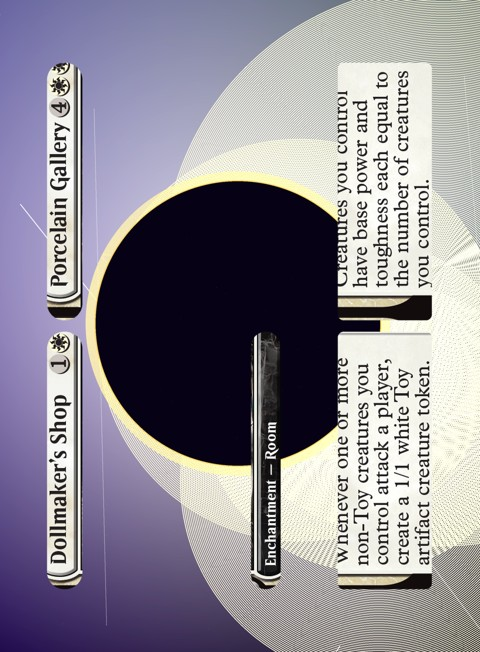
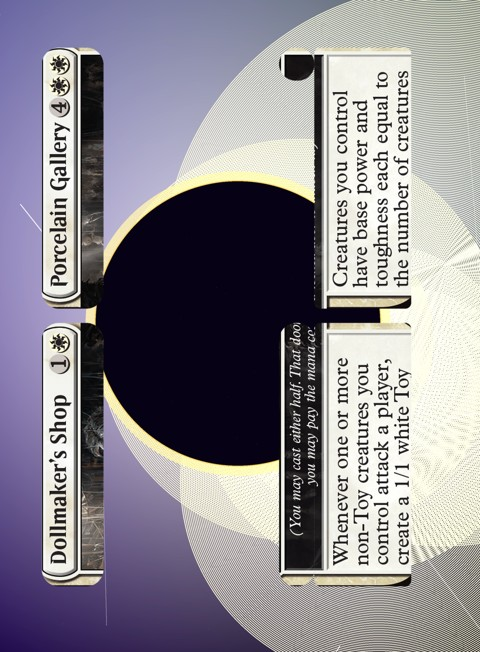
feat(compositor): precision room dual-door masking and split card support with fuse detection

Changed region(s): [[0.5, 0.0613, 0.9062, 0.9202], [0.0625, 0.0613, 0.2188, 0.9202]]

diff --git a/backend/compositor.py b/backend/compositor.py
@@ -193,12 +193,15 @@ def detect_card_boxes(
     full_art: Optional[bool] = False,
     security_stamp: Optional[str] = None,
     rarity: Optional[str] = None,
+    keywords: Optional[List[str]] = None,
+    oracle_text: Optional[str] = None,
+    card_name: Optional[str] = None,
 ) -> Dict[str, Any]:
     """
     Detects individual borders of the card rules and statistic text boxes,
     along with art box, title header (and subtitle banner if present), and type line.
     Specifically detects individual station circle badges for cards with the Station mechanic.
-    Adapts dynamically to standard, planeswalker, borderless, showcase, and inverted card layouts.
+    Adapts dynamically to standard, planeswalker, borderless, showcase, rooms, and split cards (with/without Fuse).
     """
     cw, ch = card_img.size
     sx = cw / 745.0
@@ -209,12 +212,19 @@ def detect_card_boxes(
 
     t_lower = (type_line or "").lower()
     l_lower = (layout or "").lower()
+    c_lower = (card_name or "").lower()
     effects = [str(e).lower() for e in (frame_effects or [])]
+    k_lower = [str(k).lower() for k in (keywords or [])]
+    o_lower = (oracle_text or "").lower()
 
     is_saga = (l_lower == "saga") or ("saga" in t_lower)
     is_class = (l_lower == "class") or ("class" in t_lower)
     is_case = (l_lower == "case") or ("case" in t_lower)
     is_room = ("room" in t_lower) or (l_lower == "room") or (l_lower == "split" and "room" in t_lower)
+    is_split = (not is_room) and (
+        (l_lower == "split")
+        or ("//" in c_lower and any(kw in t_lower for kw in ["instant", "sorcery", "spell"]))
+    )
     is_battle = any(k in t_lower for k in ["battle", "siege"]) or (l_lower == "battle")
     is_adventure = (l_lower == "adventure") or ("adventure" in t_lower) or ("adventure" in effects)
     is_planeswalker = "walker" in t_lower
@@ -239,10 +249,10 @@ def detect_card_boxes(
     stat_polygon = None
     subtitle_polygon = None
 
-    # Holo stamp detection: Sagas, Classes, Cases, Rooms, and Battles never mask holofoil space.
+    # Holo stamp detection: Sagas, Classes, Cases, Rooms, Split cards, and Battles never mask holofoil space.
     # Standard commons/uncommons do not have a holographic security stamp.
     has_holo = (
-        not (is_saga or is_class or is_case or is_room or is_battle)
+        not (is_saga or is_class or is_case or is_room or is_split or is_battle)
         and (
             (security_stamp is not None and security_stamp.lower() not in ["", "none", "arena"])
             or (rarity and rarity.lower() in ["rare", "mythic", "special", "bonus"])
@@ -291,20 +301,66 @@ def detect_card_boxes(
         type_box = (int(44 * sx), int(880 * sy), int(700 * sx), int(936 * sy))
         stat_box = None
     elif is_room:
-        # Room dual-door layout inside standard vertical card
-        # Left Door (Dollmaker's Shop): vertical title pill at bottom-left, rules box at bottom-right
-        # Right Door (Porcelain Gallery): vertical title pill at top-left, rules box at top-right
+        # Room dual-door layout inside standard vertical card:
+        # Left Door (bottom): vertical title pill at bottom-left, rules box at bottom-right
+        # Right Door (top): vertical title pill at top-left, rules box at top-right
         # Vertical Type line (Enchantment — Room) at bottom-center. Central reminder text is excluded from mask.
-        title_pill = (int(44 * sx), int(530 * sy), int(104 * sx), int(970 * sy))
+        title_pill = (int(35 * sx), int(515 * sy), int(140 * sx), int(965 * sy))
         title_box = title_pill
-        type_box = (int(392 * sx), int(530 * sy), int(442 * sx), int(970 * sy))
-        rules_box = (int(540 * sx), int(530 * sy), int(700 * sx), int(970 * sy))
-        art_box = (int(104 * sx), int(50 * sy), int(392 * sx), int(990 * sy))
+        type_box = (int(440 * sx), int(515 * sy), int(500 * sx), int(965 * sy))
+        rules_box = (int(500 * sx), int(515 * sy), int(665 * sx), int(965 * sy))
+        art_box = (int(140 * sx), int(44 * sy), int(440 * sx), int(965 * sy))
         stat_box = None
         extra_boxes = [
-            {"box": (int(44 * sx), int(70 * sy), int(104 * sx), int(510 * sy)), "type": "pill"},
-            {"box": (int(540 * sx), int(70 * sy), int(700 * sx), int(510 * sy)), "type": "rect"},
+            {"box": (int(35 * sx), int(44 * sy), int(140 * sx), int(490 * sy)), "type": "pill"},
+            {"box": (int(440 * sx), int(44 * sy), int(500 * sx), int(100 * sy)), "type": "pill"},
+            {"box": (int(500 * sx), int(44 * sy), int(665 * sx), int(490 * sy)), "type": "rect"},
         ]
+    elif is_split:
+        # Split card layout (Two variants: With Fuse and Without Fuse)
+        has_fuse = (
+            ("fuse" in k_lower)
+            or ("fuse" in (security_stamp or "").lower())
+            or ("fuse" in o_lower)
+            or any("fuse" in f for f in effects)
+        )
+        if not has_fuse and card_img is not None:
+            # Check right-middle probe on card frame
+            probe_p = card_img.getpixel((int(635 * sx), int(505 * sy)))
+            if sum(probe_p[:3]) / 3.0 > 80:
+                has_fuse = True
+
+        if has_fuse:
+            # Split card WITH Fuse:
+            title_pill = (int(35 * sx), int(510 * sy), int(140 * sx), int(965 * sy))
+            title_box = title_pill
+            type_box = (int(440 * sx), int(510 * sy), int(500 * sx), int(965 * sy))
+            rules_box = (int(500 * sx), int(515 * sy), int(610 * sx), int(965 * sy))
+            art_box = (int(140 * sx), int(44 * sy), int(440 * sx), int(965 * sy))
+            extra_boxes = [
+                # Top half components
+                {"box": (int(35 * sx), int(44 * sy), int(140 * sx), int(495 * sy)), "type": "pill"},
+                {"box": (int(440 * sx), int(44 * sy), int(500 * sx), int(495 * sy)), "type": "pill"},
+                {"box": (int(500 * sx), int(44 * sy), int(610 * sx), int(490 * sy)), "type": "rect"},
+                # Center connection bridges
+                {"box": (int(35 * sx), int(485 * sy), int(140 * sx), int(520 * sy)), "type": "rect"},
+                {"box": (int(440 * sx), int(485 * sy), int(500 * sx), int(520 * sy)), "type": "rect"},
+                # Fuse full-height pill on right
+                {"box": (int(610 * sx), int(44 * sy), int(665 * sx), int(965 * sy)), "type": "pill"},
+            ]
+        else:
+            # Split card WITHOUT Fuse:
+            title_pill = (int(35 * sx), int(515 * sy), int(140 * sx), int(965 * sy))
+            title_box = title_pill
+            type_box = (int(440 * sx), int(515 * sy), int(500 * sx), int(965 * sy))
+            rules_box = (int(500 * sx), int(515 * sy), int(665 * sx), int(965 * sy))
+            art_box = (int(140 * sx), int(44 * sy), int(440 * sx), int(965 * sy))
+            extra_boxes = [
+                {"box": (int(35 * sx), int(44 * sy), int(140 * sx), int(490 * sy)), "type": "pill"},
+                {"box": (int(440 * sx), int(44 * sy), int(500 * sx), int(490 * sy)), "type": "pill"},
+                {"box": (int(500 * sx), int(44 * sy), int(665 * sx), int(490 * sy)), "type": "rect"},
+            ]
+        stat_box = None
     elif is_battle:
         # Battle - Siege landscape format inside standard vertical card
         # Left vertical title column, vertical type line, single continuous rules text box, and 8-pointed defense star

diff --git a/backend/generate_samples.py b/backend/generate_samples.py
@@ -351,6 +351,39 @@ SAMPLE_CARD_VARIANTS: List[Dict[str, Any]] = [
             "Bottom-right Power/Toughness box (1/2)",
         ],
     },
+    {
+        "id": "split_no_fuse",
+        "set_code": "dmr",
+        "collector_number": "215",
+        "card_name": "Fire // Ice",
+        "category": "Split (Without Fuse)",
+        "description": "Dual-spell split card layout featuring two horizontal spells stacked vertically with separate title bars, type lines, and rules text boxes.",
+        "prompt": "Elemental clash of roaring searing crimson flames and crystalline azure glaciers colliding in tempest",
+        "key_elements": [
+            "Top spell title and type pill (Ice 1U Instant)",
+            "Top spell rules text box (Tap target permanent. Draw a card.)",
+            "Bottom spell title and type pill (Fire 1R Instant)",
+            "Bottom spell rules text box (Fire deals 2 damage divided...)",
+            "Dual-art full-frame background rotated 90° CCW",
+        ],
+    },
+    {
+        "id": "split_fuse",
+        "set_code": "dgm",
+        "collector_number": "135",
+        "card_name": "Wear // Tear",
+        "category": "Split (With Fuse)",
+        "description": "Fuse split card layout with connected title and type pillars, dual spell rules boxes, and tall vertical Fuse ability text pill on the right.",
+        "prompt": "Shattering radiant celestial armor and glowing arcane weapons disintegrating into molten embers and divine light",
+        "key_elements": [
+            "Top spell title and type pillar (Tear W Instant)",
+            "Bottom spell title and type pillar (Wear 1R Instant)",
+            "Central diamond bridges connecting title and type columns",
+            "Dual rules text boxes (Destroy target artifact / enchantment)",
+            "Full-height vertical Fuse ability text capsule on right",
+            "Dual-art full-frame background rotated 90° CCW",
+        ],
+    },
 ]
 
 
@@ -393,20 +426,28 @@ async def generate_all_samples(
             full_art=card_data.full_art,
             security_stamp=card_data.security_stamp,
             rarity=card_data.rarity,
+            keywords=card_data.keywords,
+            oracle_text=card_data.oracle_text,
+            card_name=card_data.name,
         )
 
         # Layout-specific art sizing, rotation, and focal positioning
         t_lower = (card_data.type_line or "").lower()
         l_lower = (card_data.layout or "").lower()
+        c_lower = (card_data.name or "").lower()
         is_battle = any(k in t_lower for k in ["battle", "siege"]) or (l_lower == "battle")
         is_room = ("room" in t_lower) or (l_lower == "room") or (l_lower == "split" and "room" in t_lower)
+        is_split = (not is_room) and (
+            (l_lower == "split")
+            or ("//" in c_lower and any(kw in t_lower for kw in ["instant", "sorcery", "spell"]))
+        )
         is_saga = ("saga" in t_lower) or (l_lower == "saga")
         is_class_or_case = any(k in t_lower for k in ["class", "case"]) or (l_lower in ["class", "case"])
 
         target_w = 2184
         target_h = 2968
 
-        if is_battle or is_room:
+        if is_battle or is_room or is_split:
             gen_w = max(target_w, target_h)
             gen_h = max(target_w, target_h)
             focal_pt = (gen_w // 2, gen_h // 2)
@@ -433,7 +474,7 @@ async def generate_all_samples(
             focal_center=focal_pt,
         )
 
-        if is_battle or is_room:
+        if is_battle or is_room or is_split:
             # Rotate 90° CCW (left) and center crop to standard (2184, 2968)
             art_rot = art_img.rotate(90, expand=True)
             crop_left = max(0, (art_rot.width - target_w) // 2)

diff --git a/tests/test_pipeline.py b/tests/test_pipeline.py
@@ -419,7 +419,35 @@ class TestAsyncPipeline(unittest.IsolatedAsyncioTestCase):
         self.assertIsNotNone(adv_boxes["stat_polygon"])
         self.assertEqual(len(adv_boxes["stat_polygon"]), 10)
 
-        # 6. Composite all special layouts and verify 800 DPI outputs
+        # 6. Split Without Fuse (Fire // Ice - DMR 215)
+        fire_data = await scryfall_client.get_card("dmr", "215", "Fire // Ice")
+        fire_img = Image.open(fire_data.cached_png_path).convert("RGB")
+        fire_boxes = detect_card_boxes(
+            fire_img,
+            type_line=fire_data.type_line,
+            layout=fire_data.layout,
+            card_name=fire_data.name,
+            keywords=fire_data.keywords,
+            oracle_text=fire_data.oracle_text,
+        )
+        self.assertGreaterEqual(len(fire_boxes["extra_boxes"]), 3)
+        self.assertIsNone(fire_boxes["holo_stamp"])
+
+        # 7. Split With Fuse (Wear // Tear - DGM 135)
+        wear_data = await scryfall_client.get_card("dgm", "135", "Wear // Tear")
+        wear_img = Image.open(wear_data.cached_png_path).convert("RGB")
+        wear_boxes = detect_card_boxes(
+            wear_img,
+            type_line=wear_data.type_line,
+            layout=wear_data.layout,
+            card_name=wear_data.name,
+            keywords=wear_data.keywords,
+            oracle_text=wear_data.oracle_text,
+        )
+        self.assertGreaterEqual(len(wear_boxes["extra_boxes"]), 5)
+        self.assertIsNone(wear_boxes["holo_stamp"])
+
+        # 8. Composite all special layouts and verify 800 DPI outputs
         gen = MockProceduralGenerator()
         for c_img, c_boxes, c_name in [
             (saga_img, saga_boxes, "Elspeth Conquers Death"),
@@ -427,6 +455,8 @@ class TestAsyncPipeline(unittest.IsolatedAsyncioTestCase):
             (room_img, room_boxes, "Dollmaker's Shop // Porcelain Gallery"),
             (battle_img, battle_boxes, "Invasion of Gobakhan"),
             (adv_img, adv_boxes, "Giant Killer // Chop Down"),
+            (fire_img, fire_boxes, "Fire // Ice"),
+            (wear_img, wear_boxes, "Wear // Tear"),
         ]:
             art = await gen.generate_art("test art", c_name, c_img.width, c_img.height)
             comp = composite_card(c_img, art, card_boxes=c_boxes)

diff --git a/backend/app.py b/backend/app.py
@@ -214,6 +214,9 @@ async def process_single_card(card: CardItem):
             full_art=card_data.full_art,
             security_stamp=card_data.security_stamp,
             rarity=card_data.rarity,
+            keywords=card_data.keywords,
+            oracle_text=card_data.oracle_text,
+            card_name=card.card_name,
         )
         card.art_box = card_boxes.get("art_box")
         card.rules_box = card_boxes.get("rules_box")
@@ -252,12 +255,17 @@ async def process_single_card(card: CardItem):
             generator = get_generator(state.provider)
         t_lower = (card_data.type_line or "").lower()
         l_lower = (card_data.layout or "").lower()
+        c_lower = (card.card_name or "").lower()
         is_battle = any(k in t_lower for k in ["battle", "siege"]) or (l_lower == "battle")
         is_room = ("room" in t_lower) or (l_lower == "room") or (l_lower == "split" and "room" in t_lower)
+        is_split = (not is_room) and (
+            (l_lower == "split")
+            or ("//" in c_lower and any(kw in t_lower for kw in ["instant", "sorcery", "spell"]))
+        )
         is_saga = ("saga" in t_lower) or (l_lower == "saga")
         is_class_or_case = any(k in t_lower for k in ["class", "case"]) or (l_lower in ["class", "case"])
 
-        if is_battle or is_room:
+        if is_battle or is_room or is_split:
             # Landscape layout: generate large square canvas, rotate 90° CCW (left), center-crop to (cw, ch)
             gen_w = max(cw, ch)
             gen_h = max(cw, ch)
@@ -285,7 +293,7 @@ async def process_single_card(card: CardItem):
             focal_center=focal_pt,
         )
 
-        if is_battle or is_room:
+        if is_battle or is_room or is_split:
             # Rotate 90° CCW (left) and center crop to (cw, ch)
             art_rot = generated_art.rotate(90, expand=True)
             crop_left = max(0, (art_rot.width - cw) // 2)

diff --git a/backend/scryfall.py b/backend/scryfall.py
@@ -39,6 +39,8 @@ class ScryfallCardData:
         promo_types: Optional[list] = None,
         security_stamp: Optional[str] = None,
         rarity: Optional[str] = None,
+        keywords: Optional[list] = None,
+        oracle_text: Optional[str] = None,
         cached_png_path: Optional[str] = None,
         cached_art_path: Optional[str] = None,
     ):
@@ -50,15 +52,17 @@ class ScryfallCardData:
         self.art_crop_url = art_crop_url
         self.flavor_name = flavor_name
         self.colors = colors or []
-        self.mana_cost = mana_cost or ""
-        self.type_line = type_line or ""
+        self.mana_cost = mana_cost
+        self.type_line = type_line
         self.layout = layout
-        self.border_color = border_color or "black"
+        self.border_color = border_color
         self.frame_effects = frame_effects or []
-        self.full_art = bool(full_art)
+        self.full_art = full_art
         self.promo_types = promo_types or []
         self.security_stamp = security_stamp
-        self.rarity = rarity or "common"
+        self.rarity = rarity
+        self.keywords = keywords or []
+        self.oracle_text = oracle_text or ""
         self.cached_png_path = cached_png_path
         self.cached_art_path = cached_art_path
 
@@ -170,6 +174,8 @@ class ScryfallClient:
                 promo_types=card_json.get("promo_types", []),
                 security_stamp=card_json.get("security_stamp"),
                 rarity=card_json.get("rarity", "common"),
+                keywords=card_json.get("keywords", []),
+                oracle_text=card_json.get("oracle_text", ""),
                 cached_png_path=str(png_cache_path),
                 cached_art_path=str(art_cache_path) if art_cache_path.exists() else None,
             )

diff --git a/docs/samples/README.md b/docs/samples/README.md
@@ -29,6 +29,8 @@ This document showcases full-art generative card compositing across all supporte
 - [Station Card (2 Circle Badges) — Dawnsire, Sunstar Dreadnought](#station-card-2-circle-badges)
 - [Station Card (3 Circle Badges) — Entropic Battlecruiser](#station-card-3-circle-badges)
 - [Adventure (Creature / Spell) — Giant Killer // Chop Down](#adventure-creature--spell)
+- [Split (Without Fuse) — Fire // Ice](#split-without-fuse)
+- [Split (With Fuse) — Wear // Tear](#split-with-fuse)
 
 ---
 
@@ -418,6 +420,45 @@ This document showcases full-art generative card compositing across all supporte
 - Left Adventure spell scroll (Chop Down 2W Instant)
 - Right creature rules text box
 - Bottom-right Power/Toughness box (1/2)
+
+---
+
+### Split (Without Fuse)
+
+**Card:** `Fire // Ice` (`DMR` #215)  
+**Description:** Dual-spell split card layout featuring two horizontal spells stacked vertically with separate title bars, type lines, and rules text boxes.  
+**Sample Prompt:** *"Elemental clash of roaring searing crimson flames and crystalline azure glaciers colliding in tempest"*
+
+<p align="center">
+  <img src="images/split_no_fuse_thumb.jpg" alt="Fire // Ice Sample" width="400" />
+</p>
+
+**Key Frame Elements Preserved:**
+- Top spell title and type pill (Ice 1U Instant)
+- Top spell rules text box (Tap target permanent. Draw a card.)
+- Bottom spell title and type pill (Fire 1R Instant)
+- Bottom spell rules text box (Fire deals 2 damage divided...)
+- Dual-art full-frame background rotated 90° CCW
+
+---
+
+### Split (With Fuse)
+
+**Card:** `Wear // Tear` (`DGM` #135)  
+**Description:** Fuse split card layout with connected title and type pillars, dual spell rules boxes, and tall vertical Fuse ability text pill on the right.  
+**Sample Prompt:** *"Shattering radiant celestial armor and glowing arcane weapons disintegrating into molten embers and divine light"*
+
+<p align="center">
+  <img src="images/split_fuse_thumb.jpg" alt="Wear // Tear Sample" width="400" />
+</p>
+
+**Key Frame Elements Preserved:**
+- Top spell title and type pillar (Tear W Instant)
+- Bottom spell title and type pillar (Wear 1R Instant)
+- Central diamond bridges connecting title and type columns
+- Dual rules text boxes (Destroy target artifact / enchantment)
+- Full-height vertical Fuse ability text capsule on right
+- Dual-art full-frame background rotated 90° CCW
 
 ---
 
